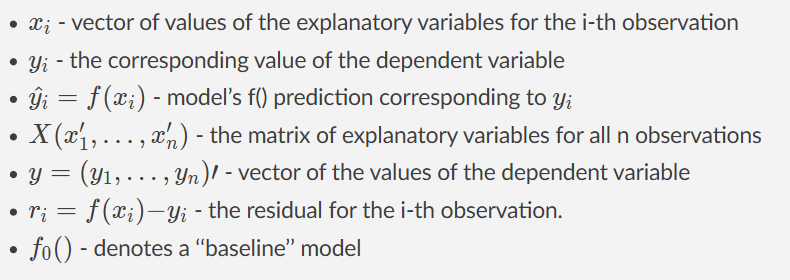
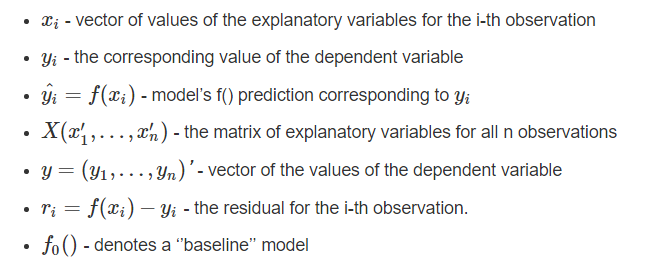
update model assessment methods

diff --git a/Models/ModelAssessmentMethods/ModelAssessmentMethods.html b/Models/ModelAssessmentMethods/ModelAssessmentMethods.html
@@ -12,7 +12,7 @@
 <meta name="author" content="Anna Kozak" />
 
 
-<title>Ocena modelu regresyjnego</title>
+<title>Model Assessment Methods</title>
 
 <script>// Pandoc 2.9 adds attributes on both header and div. We remove the former (to
 // be compatible with the behavior of Pandoc < 2.8).
@@ -375,20 +375,24 @@ summary {
 
 
 
-<h1 class="title toc-ignore">Ocena modelu regresyjnego</h1>
+<h1 class="title toc-ignore">Model Assessment Methods</h1>
 <h4 class="author">Anna Kozak</h4>
 
 </div>
 
 
-<div id="sposoby-oceny-jakości-predykcji-modelu-regresji" class="section level4">
-<h4>Sposoby oceny jakości predykcji modelu regresji</h4>
-<p>Oznaczmy <span class="math inline">\(x_i\)</span> jako wektor zmiennych objaśniających, natomiast <span class="math inline">\(y_i\)</span> jako odpowiadającą mu wartość zmiennej zależnej. Oznaczmy przez <span class="math inline">\(\hat{y} = f(x)\)</span> predykcję modelu <span class="math inline">\(f()\)</span> odpowiadające <span class="math inline">\(y_i\)</span>.</p>
-<p>Niech <span class="math inline">\(X=(x_1&#39;, \dots, x_n&#39;)\)</span> oznacza macierz zmiennych objaśniających dla wszystkich <span class="math inline">\(n\)</span> obserwacji oraz <span class="math inline">\(y=(y_1, \dots, y_n)&#39;\)</span> wektor wartości zmiennej objaśnianej.</p>
+<p>Notation</p>
 <ul>
-<li><span class="math inline">\(MSE\)</span> <em>(Mean Square Error)</em></li>
+<li><p><span class="math inline">\(x_i\)</span> - vector of values of the explanatory variables for the i-th observation</p></li>
+<li><p><span class="math inline">\(y_i\)</span> - the corresponding value of the dependent variable</p></li>
+<li><p><span class="math inline">\(\hat{y_i}=f(x_i)\)</span> - model’s f() prediction corresponding to <span class="math inline">\(y_i\)</span></p></li>
+<li><p><span class="math inline">\(X(x_1&#39;,…,x_n&#39;)\)</span> - the matrix of explanatory variables for all n observations</p></li>
+<li><p><span class="math inline">\(y=(y_1,…,y_n)′\)</span> - vector of the values of the dependent variable</p></li>
+<li><p><span class="math inline">\(r_i=f(x_i)−y_i\)</span> - the residual for the i-th observation.</p></li>
+<li><p><span class="math inline">\(f_0()\)</span> - denotes a ‘’baseline’’ model</p></li>
+<li><p><span class="math inline">\(MSE\)</span> <em>(Mean Square Error)</em></p></li>
 </ul>
-<p><span class="math display">\[MSE(f, X, y) = \frac{1}{n}\sum_{i}^{n}(f(x_i)-y_i)^2 = \frac{1}{n}\sum_{i}^{n}r_i^2,\]</span> gdzie <span class="math inline">\(r_i=f(x_i)-y_i\)</span> oznacza resztę dla <span class="math inline">\(i\)</span>-tej obserwacji. Dla perfekcyjnego modelu, czyli takiego gdzie wszystkie predykcykcje są równe wartościom <span class="math inline">\(y_i\)</span>, <span class="math inline">\(MSE=0\)</span>.</p>
+<p><span class="math display">\[MSE(f, X, y) = \frac{1}{n}\sum_{i}^{n}(f(x_i)-y_i)^2 = \frac{1}{n}\sum_{i}^{n}r_i^2\]</span></p>
 <ul>
 <li><span class="math inline">\(RMSE\)</span> <em>(Root Mean Square Error)</em></li>
 </ul>
@@ -396,11 +400,11 @@ summary {
 <ul>
 <li><span class="math inline">\(R^2\)</span> <em>(Coefficient of determination)</em></li>
 </ul>
-<p><span class="math display">\[R^2(f, X, y) = 1 - \frac{MSE(f, X, y)}{MSE(f_0, X, y)}\]</span> <span class="math inline">\(f_0\)</span> oznacza bazowy model. Dla klasycznej regresji liniowej oznacza to, że jako predykcję dla każdej obserwacji przyjmujemy średnią ze wszystkich wartości <span class="math inline">\(Y\)</span>.</p>
+<p><span class="math display">\[R^2(f, X, y) = 1 - \frac{MSE(f, X, y)}{MSE(f_0, X, y)}\]</span></p>
 <ul>
 <li><span class="math inline">\(MAD\)</span> <em>(Median Absolute Deviation)</em></li>
 </ul>
-<p><span class="math display">\[MAD(f, X, y) = median(|r_1|, \dots, |r_n|)\]</span> Miara <span class="math inline">\(MAD\)</span> jest bardziej odporna na outliery niż <span class="math inline">\(MSE\)</span>.</p>
+<p><span class="math display">\[MAD(f, X, y) = median(|r_1|, \dots, |r_n|)\]</span> <span class="math inline">\(MAD\)</span> is more resistant to outliers than <span class="math inline">\(MSE\)</span>.</p>
 <ul>
 <li><span class="math inline">\(MAE\)</span> <em>(Mean Absolute Error)</em></li>
 </ul>
@@ -409,33 +413,6 @@ summary {
 <li><span class="math inline">\(MAPE\)</span> <em>(Mean absolute percentage error)</em></li>
 </ul>
 <p><span class="math display">\[MAPE(f, X, y) = \frac{100\%}{n}\sum_{i}^{n}\Big|\frac{r_i}{y_i}\Big|\]</span></p>
-<ul>
-<li><p><span class="math inline">\(Testy \ statystyczne\)</span></p>
-<ul>
-<li><span class="math inline">\(t-test\)</span></li>
-</ul>
-<p>Możemy ocenić czy średnia wartość reszt jest równa 0.</p>
-<ul>
-<li><span class="math inline">\(Welch \ test\)</span></li>
-</ul>
-<p>Możemy ocenić czy średnia wartość reszt w zbiorze treningowy jest równa średniej wartości reszt w zbiorze testowym.</p>
-<ul>
-<li><span class="math inline">\(F-test\)</span></li>
-</ul>
-<p>Prównanie wariancji reszt ze zbiory treningowego oraz reszt ze zbioru testowego. Aby wykorzystać F-test, rozkłady muszą być z rozkładu normalnego, sprawdzamy testem Shapiro-Wilka.</p>
-<ul>
-<li><span class="math inline">\(Kolmogorov-Smirnov \ test\)</span></li>
-</ul>
-<p>Test do oceny podobieństwa rozkładu prawdopodobieństwa reszt ze zbioru treningowego i testowego.</p></li>
-</ul>
-</div>
-<div id="inne-pomysły" class="section level4">
-<h4>Inne pomysły</h4>
-<ul>
-<li><em>Średni błąd względny</em></li>
-</ul>
-<p><span class="math display">\[\frac{1}{n}\sum_{i}^{n}\frac{|y_i - \hat{y_i}|}{y_i}\]</span></p>
-</div>
 
 
 
